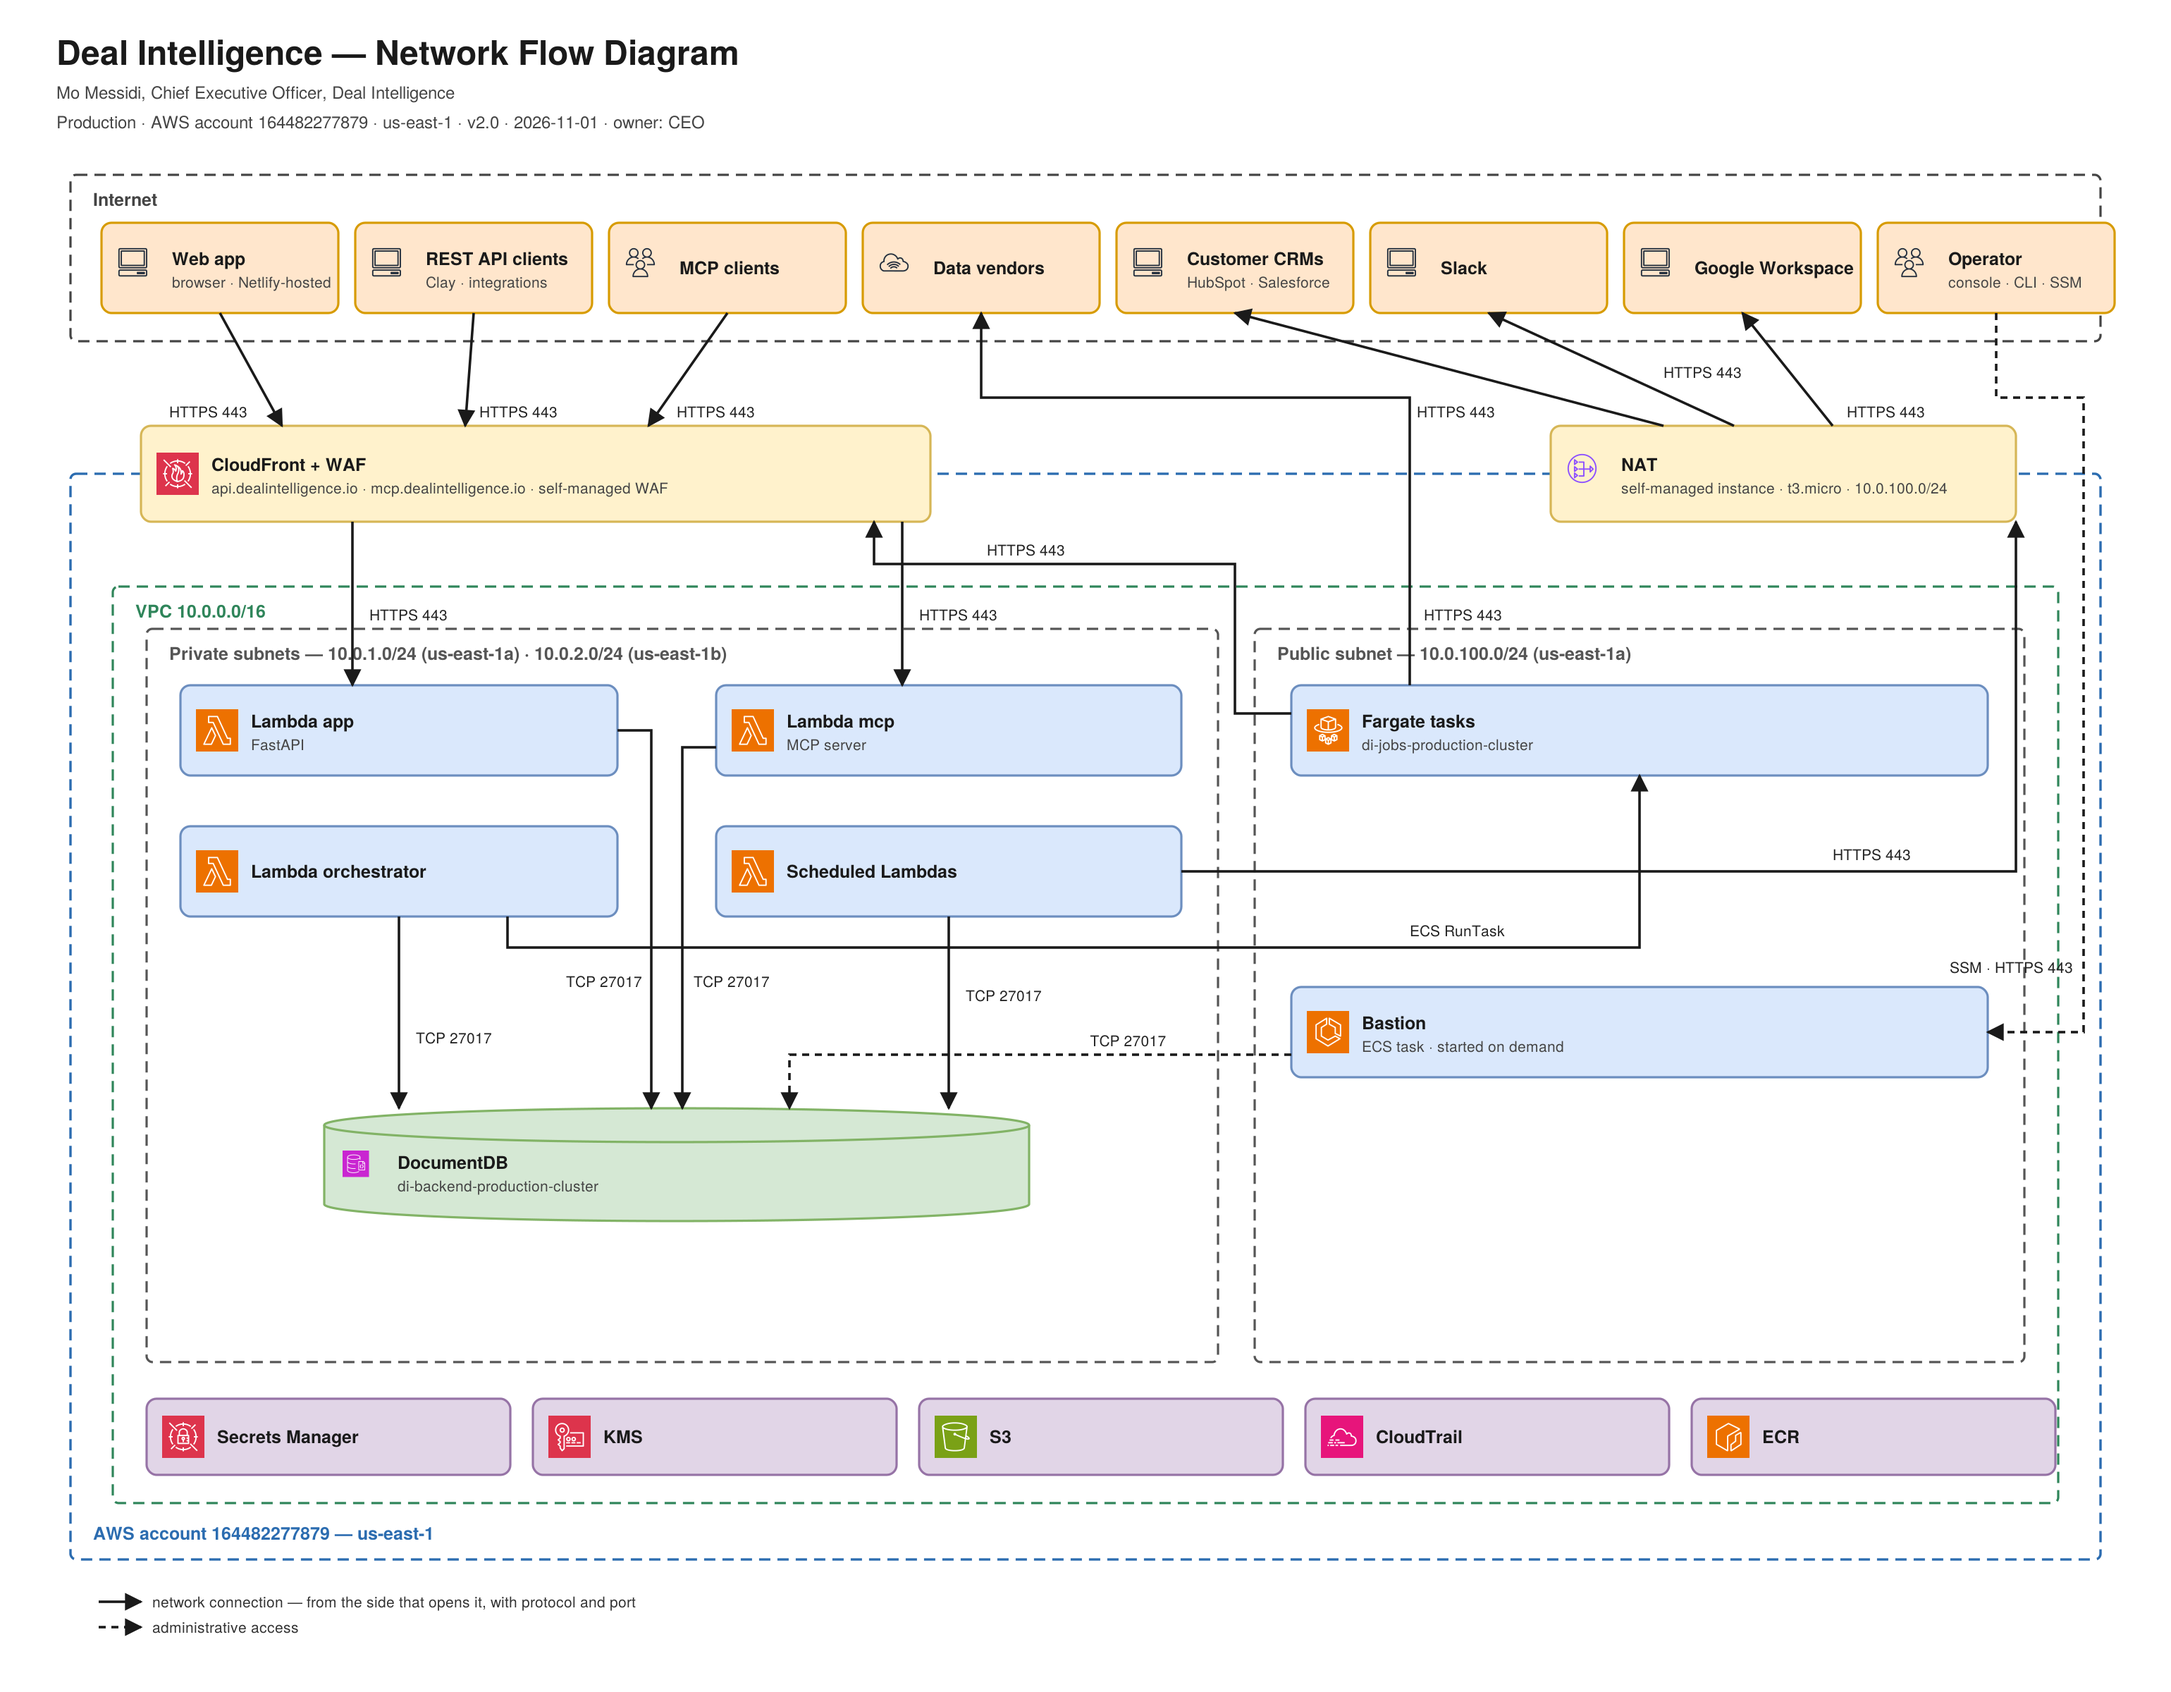
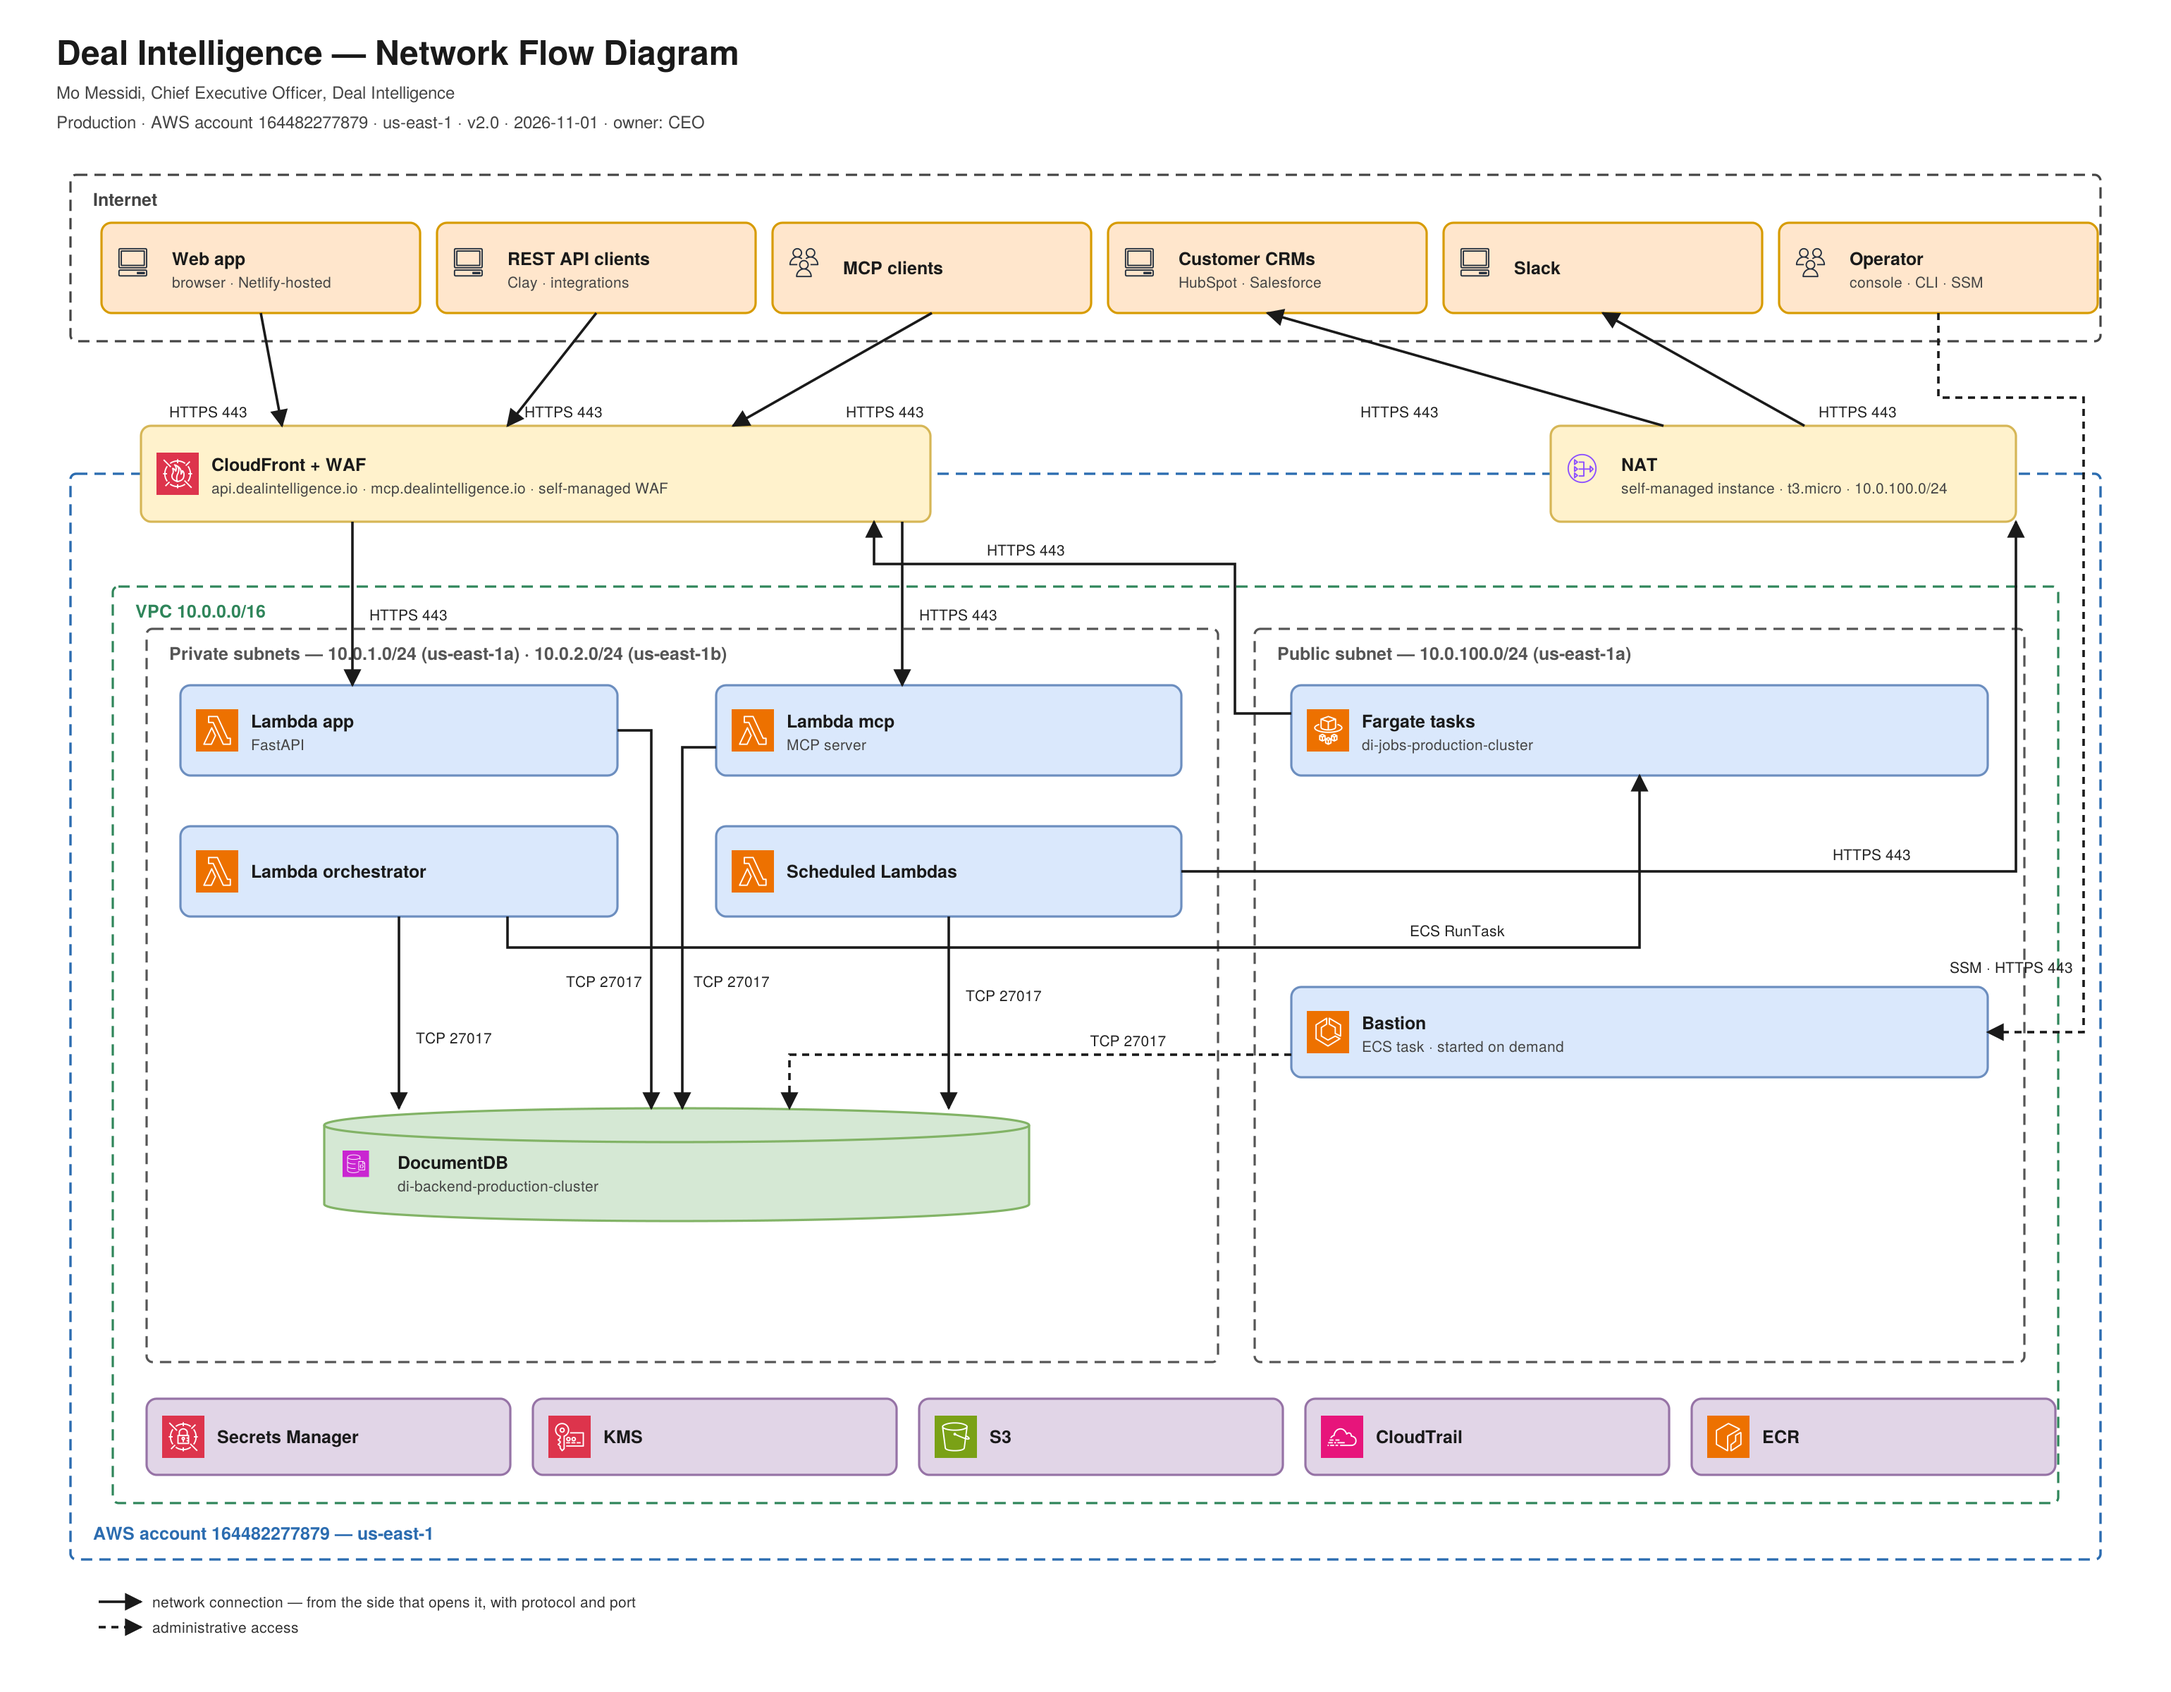
docs(di-migration): network diagram — drop data vendors and Google Workspace nodes; no second-person labels
Claude-Session: https://claude.ai/code/session_01HHDhHvUwP2Tkd9fWDhAGHC

diff --git a/scripts/di-migration/evidence/network-diagram/make_network_diagram.py b/scripts/di-migration/evidence/network-diagram/make_network_diagram.py
@@ -119,16 +119,14 @@ def build_internal():
              f"Production · AWS account 164482277879 · us-east-1 · v2.0 · {DATE} · owner: CEO")
 
     c.boundary(50, 124, 1440, 118, "Internet")
-    ey, eh, ew, gap = 158, 64, 168, 12
-    xs = [72 + i * (ew + gap) for i in range(8)]
+    ey, eh, ew, gap = 158, 64, 226, 12
+    xs = [72 + i * (ew + gap) for i in range(6)]
     c.node(xs[0], ey, ew, eh, "Web app", "browser · Netlify-hosted", EXT, "Client")
     c.node(xs[1], ey, ew, eh, "REST API clients", "Clay · integrations", EXT, "Client")
     c.node(xs[2], ey, ew, eh, "MCP clients", None, EXT, "Users")
-    c.node(xs[3], ey, ew, eh, "Data vendors", None, EXT, "Internetalt1")
-    c.node(xs[4], ey, ew, eh, "Customer CRMs", "HubSpot · Salesforce", EXT, "Client")
-    c.node(xs[5], ey, ew, eh, "Slack", None, EXT, "Client")
-    c.node(xs[6], ey, ew, eh, "Google Workspace", None, EXT, "Client")
-    c.node(xs[7], ey, ew, eh, "Operator", "console · CLI · SSM", EXT, "Users")
+    c.node(xs[3], ey, ew, eh, "Customer CRMs", "HubSpot · Salesforce", EXT, "Client")
+    c.node(xs[4], ey, ew, eh, "Slack", None, EXT, "Client")
+    c.node(xs[5], ey, ew, eh, "Operator", "console · CLI · SSM", EXT, "Users")
 
     A = 336
     c.p.append(f'<rect x="50" y="{A}" width="1440" height="770" rx="4" ry="4" fill="none" stroke="#2b6cb0" '
@@ -157,9 +155,9 @@ def build_internal():
         c.node(104 + i * (sw + 16), 992, sw, 54, t, None, SUP, ic)
 
     # ingress
-    c.arrow([(xs[0] + 84, ey + eh), (200, A - 34)], "HTTPS 443", 120, 296, "start")
-    c.arrow([(xs[1] + 84, ey + eh), (330, A - 34)], "HTTPS 443", 340, 296, "start")
-    c.arrow([(xs[2] + 84, ey + eh), (460, A - 34)], "HTTPS 443", 480, 296, "start")
+    c.arrow([(xs[0] + 113, ey + eh), (200, A - 34)], "HTTPS 443", 120, 296, "start")
+    c.arrow([(xs[1] + 113, ey + eh), (360, A - 34)], "HTTPS 443", 372, 296, "start")
+    c.arrow([(xs[2] + 113, ey + eh), (520, A - 34)], "HTTPS 443", 600, 296, "start")
     c.arrow([(250, A + 34), (250, 486)], "HTTPS 443", 262, 440, "start")
     c.arrow([(640, A + 34), (640, 486)], "HTTPS 443", 652, 440, "start")
     # database
@@ -171,14 +169,12 @@ def build_internal():
     c.arrow([(360, 650), (360, 672), (1163, 672), (1163, 550)], "ECS RunTask", 1000, 664, "start")
     # Lambdas out through the NAT
     c.arrow([(838, 618), (1430, 618), (1430, A + 34)], "HTTPS 443", 1300, 610, "start")
-    c.arrow([(1180, A - 34), (xs[4] + 84, ey + eh)], "HTTPS 443", 1060, 296, "end")
-    c.arrow([(1230, A - 34), (xs[5] + 84, ey + eh)], "HTTPS 443", 1180, 268, "start")
-    c.arrow([(1300, A - 34), (xs[6] + 84, ey + eh)], "HTTPS 443", 1310, 296, "start")
-    # Fargate: API calls back in through CloudFront; data vendors directly (public IP, no NAT)
+    c.arrow([(1180, A - 34), (xs[3] + 113, ey + eh)], "HTTPS 443", 1020, 296, "end")
+    c.arrow([(1280, A - 34), (xs[4] + 113, ey + eh)], "HTTPS 443", 1290, 296, "start")
+    # Fargate: API calls back in through CloudFront
     c.arrow([(916, 506), (876, 506), (876, 400), (620, 400), (620, A + 34)], "HTTPS 443", 700, 394, "start")
-    c.arrow([(1000, 486), (1000, 282), (xs[3] + 84, 282), (xs[3] + 84, ey + eh)], "HTTPS 443", 1010, 440, "start")
     # administrative access
-    dashed(c, [(xs[7] + 84, ey + eh), (xs[7] + 84, 282), (1478, 282), (1478, 732), (1410, 732)], "SSM · HTTPS 443", 1470, 690, "end")
+    dashed(c, [(xs[5] + 113, ey + eh), (xs[5] + 113, 282), (1478, 282), (1478, 732), (1410, 732)], "SSM · HTTPS 443", 1470, 690, "end")
     dashed(c, [(916, 748), (560, 748), (560, 786)], "TCP 27017", 800, 742, "middle")
 
     legend(c, 70, 1140)
@@ -188,15 +184,15 @@ def build_internal():
 def build_customer():
     c = Canvas(1200, 820)
     c.header("Deal Intelligence — Network Flow Diagram",
-             f"How your systems connect to the Deal Intelligence platform · v2.0 · {DATE}")
+             f"Customer connections · v2.0 · {DATE}")
 
-    c.boundary(50, 124, 1100, 118, "Your systems")
+    c.boundary(50, 124, 1100, 118, "Customer systems")
     ey, eh = 158, 64
     c.node(76, ey, 200, eh, "Web app", "browser", EXT, "Client")
     c.node(300, ey, 200, eh, "REST API clients", "Clay · integrations", EXT, "Client")
     c.node(524, ey, 180, eh, "MCP clients", None, EXT, "Users")
-    c.node(728, ey, 190, eh, "Your CRM", "HubSpot · Salesforce", EXT, "Client")
-    c.node(942, ey, 180, eh, "Your Slack", None, EXT, "Client")
+    c.node(728, ey, 190, eh, "Customer CRM", "HubSpot · Salesforce", EXT, "Client")
+    c.node(942, ey, 180, eh, "Customer Slack", None, EXT, "Client")
 
     A = 336
     c.p.append(f'<rect x="50" y="{A}" width="1100" height="400" rx="4" ry="4" fill="none" stroke="#2b6cb0" '
@@ -208,7 +204,7 @@ def build_customer():
 
     c.boundary(80, 426, 1040, 260, "Private network", "#2f855a")
     c.node(150, 476, 300, 68, "API", "Lambda", INT, "AWSLambda")
-    c.cyl(620, 468, 400, 84, "Your data", "DocumentDB · encrypted · 35-day backups", "AmazonDocumentDB")
+    c.cyl(620, 468, 400, 84, "Customer data", "DocumentDB · encrypted · 35-day backups", "AmazonDocumentDB")
 
     c.arrow([(176, ey + eh), (200, A - 34)], "HTTPS 443", 118, 296, "start")
     c.arrow([(400, ey + eh), (330, A - 34)], "HTTPS 443", 380, 296, "start")

diff --git a/scripts/di-migration/evidence/network-diagram/README.md b/scripts/di-migration/evidence/network-diagram/README.md
@@ -3,7 +3,7 @@
 | File | Audience |
 |---|---|
 | `di-backend-network-internal-2026-11-01.png` | Engineering, auditor. Every system and every connection. |
-| `di-backend-network-customer-2026-11-01.png` | Customers. Their systems are the only outside parties; no data vendors, no operator path. |
+| `di-backend-network-customer-2026-11-01.png` | Customers. Customer systems are the only outside parties; no operator path. |
 
 Drawn to the usual network-flow-diagram conventions (PCI DSS 1.2.3/1.2.4 style):
 
@@ -13,7 +13,7 @@ Drawn to the usual network-flow-diagram conventions (PCI DSS 1.2.3/1.2.4 style):
 - Arrows are connections, drawn from the side that opens the connection, labelled with
   protocol and port. Solid = application traffic. Dashed = administrative access
   (operator → SSM → bastion → DocumentDB).
-- Third parties are labelled by name and the protocol used to reach them.
+- Outside systems are labelled by name and the protocol used to reach them (customer CRMs and Slack via the NAT).
 - Version, date, and owner are in the header.
 
 No authentication detail is on the diagram (that belongs in the data-flow diagram and the
@@ -30,5 +30,5 @@ the Lambdas, and a t3.micro NAT instance instead of a NAT Gateway. In policy tex
 
 Facts as of 2026-11-01 from `serverless.yml` (CIDRs), DNS, and
 `di-backend-api/docs/infra-edge-review-2026-11-01.md`. Fargate tasks run in the public
-subnet and reach data vendors on their own public IP, not through the NAT; their calls
+subnet; their calls
 back to the API go through CloudFront like any other client.
